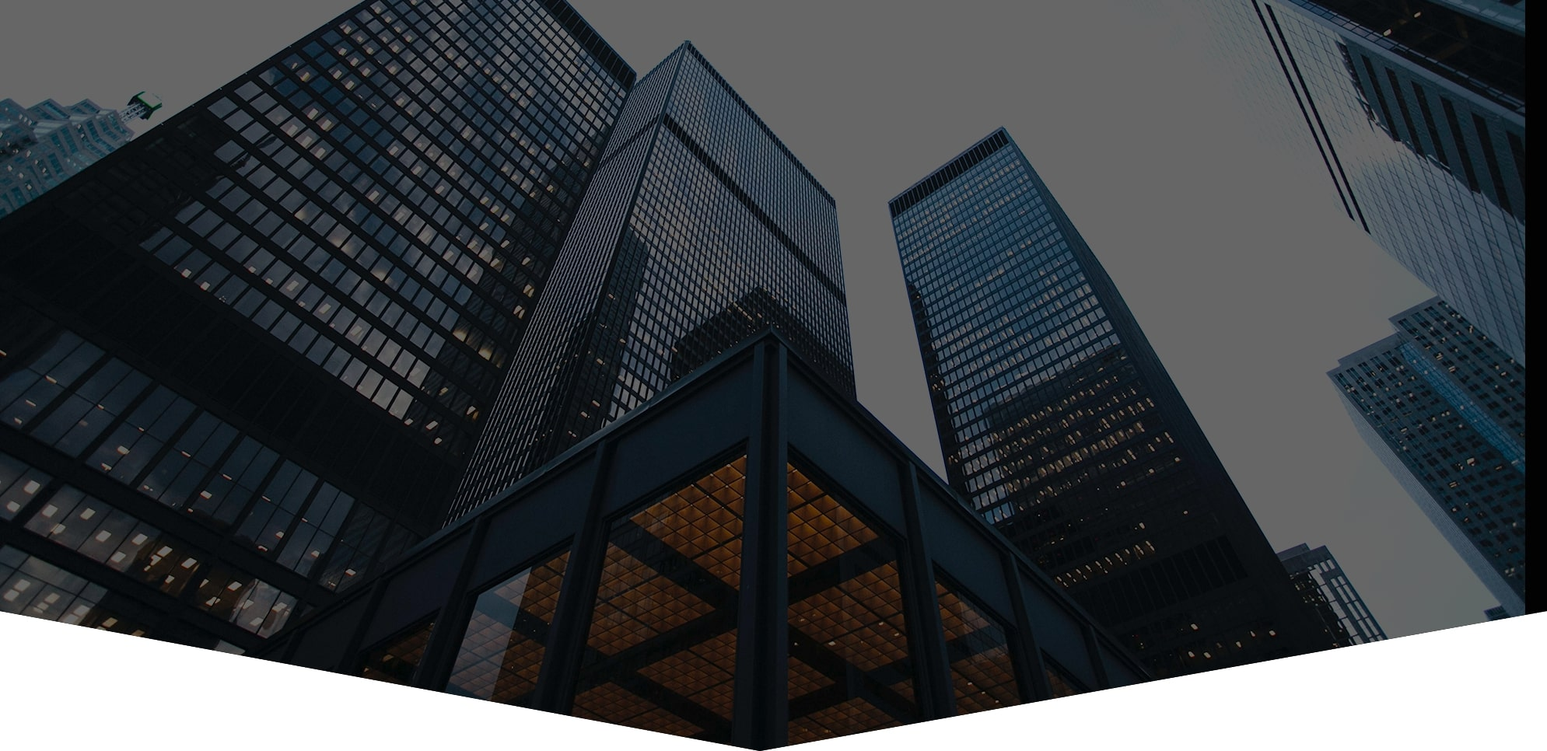
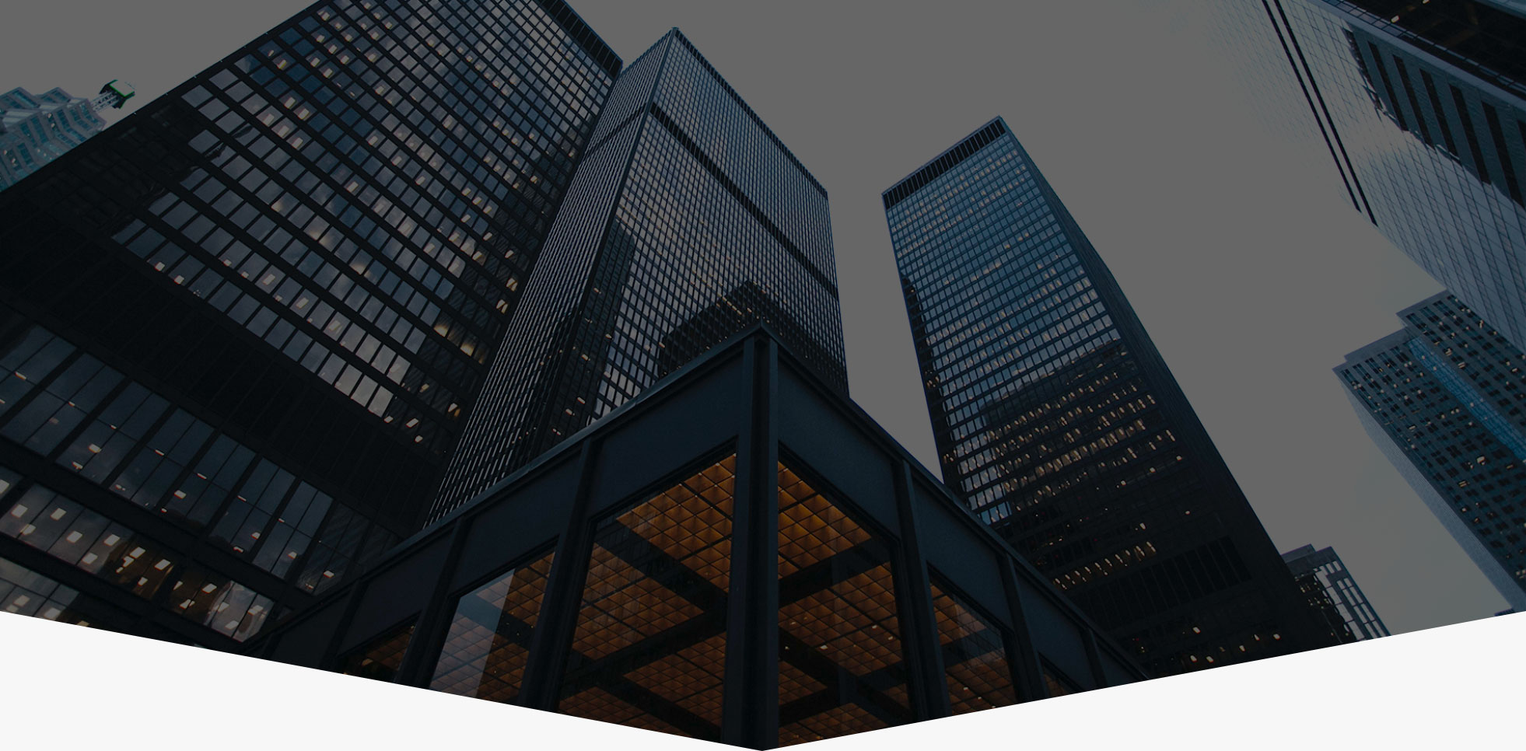
update index page design

diff --git a/src/index.html b/src/index.html
@@ -1,1 +1,1 @@
-<!DOCTYPE html><html lang="en"><head><meta charset="UTF-8"/><meta name="viewport" content="width=device-width, initial-scale=1.0"/><meta http-equiv="X-UA-Compatible" content="ie=edge"/><title>Dheeti Technologies- Turning Your Vision Into Reality</title><link rel="stylesheet" href="https://fonts.googleapis.com/css?family=Merriweather:700|Open+Sans:400,700&amp;display=swap"/><link rel="stylesheet" href="assets/css/style.css"/><link rel="apple-touch-icon-precomposed" sizes="57x57" href="assets/img/apple-touch-icon-57x57.png"/><link rel="apple-touch-icon-precomposed" sizes="114x114" href="assets/img/apple-touch-icon-114x114.png"/><link rel="apple-touch-icon-precomposed" sizes="72x72" href="assets/img/apple-touch-icon-72x72.png"/><link rel="apple-touch-icon-precomposed" sizes="144x144" href="assets/img/apple-touch-icon-144x144.png"/><link rel="apple-touch-icon-precomposed" sizes="60x60" href="assets/img/apple-touch-icon-60x60.png"/><link rel="apple-touch-icon-precomposed" sizes="120x120" href="assets/img/apple-touch-icon-120x120.png"/><link rel="apple-touch-icon-precomposed" sizes="76x76" href="assets/img/apple-touch-icon-76x76.png"/><link rel="apple-touch-icon-precomposed" sizes="152x152" href="assets/img/apple-touch-icon-152x152.png"/><link rel="icon" type="image/png" href="assets/img/favicon-196x196.png" sizes="196x196"/><link rel="icon" type="image/png" href="assets/img/favicon-96x96.png" sizes="96x96"/><link rel="icon" type="image/png" href="assets/img/favicon-32x32.png" sizes="32x32"/><link rel="icon" type="image/png" href="assets/img/favicon-16x16.png" sizes="16x16"/><link rel="icon" type="image/png" href="assets/img/favicon-128.png" sizes="128x128"/><meta name="application-name" content=" "/><meta name="msapplication-TileColor" content="#FFFFFF"/><meta name="msapplication-TileImage" content="assets/img/mstile-144x144.png"/><meta name="msapplication-square70x70logo" content="assets/img/mstile-70x70.png"/><meta name="msapplication-square150x150logo" content="assets/img/mstile-150x150.png"/><meta name="msapplication-wide310x150logo" content="assets/img/mstile-310x150.png"/><meta name="msapplication-square310x310logo" content="assets/img/mstile-310x310.png"/><meta name="image" content="assets/img/growthpal-meta.jpg"/><meta name="description" content="Dheeti Technologies provides expert guidance to growth-oriented businesses in the Industry 4.0 through consultation, training as well as software development."/><meta name="image" content="assets/img/growthpal-meta.jpg"/><!-- Schema.org for Google--><meta itemprop="name" content="Dheeti Technologies- Turning Your Vision Into Reality"/><meta itemprop="description" content="Dheeti Technologies provides expert guidance to growth-oriented businesses in the Industry 4.0 through consultation, training as well as software development."/><meta itemprop="image" content="assets/img/growthpal-meta.jpg"/><!-- Twitter--><meta name="twitter:card" content="summary"/><meta name="twitter:title" content="Dheeti Technologies- Turning Your Vision Into Reality"/><meta name="twitter:description" content="Dheeti Technologies provides expert guidance to growth-oriented businesses in the Industry 4.0 through consultation, training as well as software development."/><meta name="twitter:site" content=""/><meta name="twitter:creator" content=""/><meta name="twitter:image:src" content="assets/img/growthpal-meta.jpg"/><!-- Open Graph general (Facebook, Pinterest & Google+)--><meta name="url" property="og:url" content="https://www.growthpal.com"/><meta name="site_name" property="og:site_name" content="Dheeti Technologies"/><meta name="title" property="og:title" content="Dheeti Technologies- Turning Your Vision Into Reality"/><meta name="type" property="og:type" content="website"/><meta name="image" property="og:image" content="assets/img/growthpal-meta.jpg"/><meta name="description" property="og:description" content="Dheeti Technologies provides expert guidance to growth-oriented businesses in the Industry 4.0 through consultation, training as well as software development."/></head><body><nav class="nav"><div class="container"><div class="flex align-items-center"><div class="flex-1"><a href="./"><img src="assets/img/dheeti-logo.svg" alt="dheeti logo"/></a></div><div class="flex-1 right"><ul><li><a href="#!">Services</a></li><li><a href="#!">Team</a></li><li><a href="#!">Blog</a></li><li><a href="#!">Contact</a></li></ul></div></div></div></nav><main class="index"><section class="index-hero center"><div class="container"><h1 class="white">Turning Your Vision Into Reality</h1><p class="white">Business Consulting for Industry 4.0</p><a class="button white" href="#!">Contact Us</a></div></section><section class="index-how center"><div class="container"><h2>How Can We Help?</h2><div class="flex flex-wrap"><div class="flex-1"><img src="assets/img/consulting.png" alt="consulting"/><h3>Consulting</h3><p>Is your organisation finding it difficult to navigate through the current uncertain times? We work with enterprises helping them navigate and come out a winner through these VUCA times.</p></div><div class="flex-1"><img src="assets/img/software-dev.png" alt="software development"/><h3>Software Development</h3><p>Software is changing how businesses are run at every level. We can help build the software that’s right for your requirements.</p></div><div class="flex-1"><img src="assets/img/training.png" alt="training"/><h3>Training</h3><p>Training on various software practices for the complete workforce. Right from the junior developers on how to use GIT well to experienced software architects on Object-Oriented Programming and DevOps.</p></div></div></div></section><section class="index-clients center"><div class="container"><h2>Our Clients</h2><div class="flex flex-wrap justify-content-center align-items-center"><div class="flex-1"><img src="assets/img/siemens-logo.png" alt="siemens logo"/></div><div class="flex-1"><img src="assets/img/trusting-social-logo.png" alt="trusting social logo"/></div><div class="flex-1"><img src="assets/img/learning-health-logo.png" alt="learning health logo"/></div><div class="flex-1"><img src="assets/img/tata-communications-logo.png" alt="tata communications logo"/></div><div class="flex-1"><img src="assets/img/shibika-logo.png" alt="shibika logo"/></div></div></div></section><section class="index-team center"><div class="container"><h2>Our Team</h2><div class="flex"><div class="flex-1"><img src="assets/img/jayram-joshi.png" alt="jayram joshi"/><h3>Jayram Joshi</h3><h4>CEO</h4><p>With over 20 years of work experience, Jayram has worked with some of the leading brands in varying roles across domains. His journey started as a project manager and evolved to roles like that of Cheif Technical Officer, Head of Product Development who grew to become a Leadership Coach, Mentor and now the Founder. A Technologist and Entrepreneur at heart, Jayram is always curious to learn and grow.</p></div><div class="flex-1"><img src="assets/img/shripad-agashe.png" alt="shripad agashe"/><h3>Shripad Agashe</h3><h4>CTO</h4><p>With over 17 years of development experience in building enterprise-scale software, Shripad is an expert in TDD with a special interest in Performance and Scalability of compute-intensive enterprise applications. “Been there, done that.” is the perfect phrase to define Shripad’s technical expertise which has evolved from a System Engineer to a Senior Technical Architect. Even though the sceptical one in the team, Shripad too is ever-curious about the latest the tech market has to offer.</p></div></div></div></section><section class="index-blog"><div class="container"><h2 class="center">Blog</h2><div class="flex"><div class="flex-1"><img src="assets/img/blog-featured-image.jpg" alt="The Guessing Game of Abstractions"/><h3 class="uppercase">The Guessing Game of Abstractions</h3><p>Lorem ipsum dolor, sit amet consectetur adipisicing elit. Doloribus amet dolores distinctio ducimus cumque delectus sunt vero nobis qui iure! Ipsum, voluptate hic! Quis eveniet eaque voluptate soluta! Unde, beatae!</p></div><div class="flex-1"><img src="assets/img/blog-featured-image.jpg" alt="The Guessing Game of Abstractions"/><h3 class="uppercase">The Guessing Game of Abstractions</h3><p>Lorem ipsum dolor, sit amet consectetur adipisicing elit. Doloribus amet dolores distinctio ducimus cumque delectus sunt vero nobis qui iure! Ipsum, voluptate hic! Quis eveniet eaque voluptate soluta! Unde, beatae!</p></div><div class="flex-1"><img src="assets/img/blog-featured-image.jpg" alt="The Guessing Game of Abstractions"/><h3 class="uppercase">The Guessing Game of Abstractions</h3><p>Lorem ipsum dolor, sit amet consectetur adipisicing elit. Doloribus amet dolores distinctio ducimus cumque delectus sunt vero nobis qui iure! Ipsum, voluptate hic! Quis eveniet eaque voluptate soluta! Unde, beatae!</p></div></div></div></section><section class="index-contact"><div class="container"><h2 class="center">Contact Us</h2><div class="index-contact__wrapper"><form><input type="text" placeholder="Name"/><input type="email" placeholder="Email"/><input type="text" placeholder="Phone"/><textarea id="message" name="message" cols="30" rows="10" placeholder="Message"></textarea><div class="center"><button class="button button-fill" type="submit">Send</button></div></form></div></div></section></main><footer class="footer"><div class="container"><div class="flex"><div class="flex-1"><img src="assets/img/dheeti-logo.svg" alt="dheeti logo"/><p>&copy; Dheeti Technologies. All Rights Reserved.</p><p><a href="#!">Privacy Policy</a><span> | </span><a href="#!">Terms of Use</a></p></div><div class="flex-1"><ul class="footer-list"><li>Bhawani Complex, Shastri Nagar Kothrud Pune,<br/>Maharashtra India 411038</li><li><a href="tel:+91 779-898-7105">+91 779-898-7105</a></li><li><a href="mailto:info@dheeti.com">info@dheeti.com</a></li></ul></div></div></div></footer></body></html>
+<!DOCTYPE html><html lang="en"><head><meta charset="UTF-8"/><meta name="viewport" content="width=device-width, initial-scale=1.0"/><meta http-equiv="X-UA-Compatible" content="ie=edge"/><title>Dheeti Technologies- Turning Your Vision Into Reality</title><link rel="stylesheet" href="https://fonts.googleapis.com/css?family=Merriweather:700|Open+Sans:400,700&amp;display=swap"/><link rel="stylesheet" href="assets/css/style.css"/><link rel="apple-touch-icon-precomposed" sizes="57x57" href="assets/img/apple-touch-icon-57x57.png"/><link rel="apple-touch-icon-precomposed" sizes="114x114" href="assets/img/apple-touch-icon-114x114.png"/><link rel="apple-touch-icon-precomposed" sizes="72x72" href="assets/img/apple-touch-icon-72x72.png"/><link rel="apple-touch-icon-precomposed" sizes="144x144" href="assets/img/apple-touch-icon-144x144.png"/><link rel="apple-touch-icon-precomposed" sizes="60x60" href="assets/img/apple-touch-icon-60x60.png"/><link rel="apple-touch-icon-precomposed" sizes="120x120" href="assets/img/apple-touch-icon-120x120.png"/><link rel="apple-touch-icon-precomposed" sizes="76x76" href="assets/img/apple-touch-icon-76x76.png"/><link rel="apple-touch-icon-precomposed" sizes="152x152" href="assets/img/apple-touch-icon-152x152.png"/><link rel="icon" type="image/png" href="assets/img/favicon-196x196.png" sizes="196x196"/><link rel="icon" type="image/png" href="assets/img/favicon-96x96.png" sizes="96x96"/><link rel="icon" type="image/png" href="assets/img/favicon-32x32.png" sizes="32x32"/><link rel="icon" type="image/png" href="assets/img/favicon-16x16.png" sizes="16x16"/><link rel="icon" type="image/png" href="assets/img/favicon-128.png" sizes="128x128"/><meta name="application-name" content=" "/><meta name="msapplication-TileColor" content="#FFFFFF"/><meta name="msapplication-TileImage" content="assets/img/mstile-144x144.png"/><meta name="msapplication-square70x70logo" content="assets/img/mstile-70x70.png"/><meta name="msapplication-square150x150logo" content="assets/img/mstile-150x150.png"/><meta name="msapplication-wide310x150logo" content="assets/img/mstile-310x150.png"/><meta name="msapplication-square310x310logo" content="assets/img/mstile-310x310.png"/><meta name="image" content="assets/img/growthpal-meta.jpg"/><meta name="description" content="Dheeti Technologies provides expert guidance to growth-oriented businesses in the Industry 4.0 through consultation, training as well as software development."/><meta name="image" content="assets/img/growthpal-meta.jpg"/><!-- Schema.org for Google--><meta itemprop="name" content="Dheeti Technologies- Turning Your Vision Into Reality"/><meta itemprop="description" content="Dheeti Technologies provides expert guidance to growth-oriented businesses in the Industry 4.0 through consultation, training as well as software development."/><meta itemprop="image" content="assets/img/growthpal-meta.jpg"/><!-- Twitter--><meta name="twitter:card" content="summary"/><meta name="twitter:title" content="Dheeti Technologies- Turning Your Vision Into Reality"/><meta name="twitter:description" content="Dheeti Technologies provides expert guidance to growth-oriented businesses in the Industry 4.0 through consultation, training as well as software development."/><meta name="twitter:site" content=""/><meta name="twitter:creator" content=""/><meta name="twitter:image:src" content="assets/img/growthpal-meta.jpg"/><!-- Open Graph general (Facebook, Pinterest & Google+)--><meta name="url" property="og:url" content="https://www.growthpal.com"/><meta name="site_name" property="og:site_name" content="Dheeti Technologies"/><meta name="title" property="og:title" content="Dheeti Technologies- Turning Your Vision Into Reality"/><meta name="type" property="og:type" content="website"/><meta name="image" property="og:image" content="assets/img/growthpal-meta.jpg"/><meta name="description" property="og:description" content="Dheeti Technologies provides expert guidance to growth-oriented businesses in the Industry 4.0 through consultation, training as well as software development."/></head><body><nav class="nav"><div class="container"><div class="flex align-items-center"><div class="flex-1"><a href="./"><img src="assets/img/dheeti-logo.svg" alt="dheeti logo"/></a></div><div class="flex-1 right"><ul><li><a href="#services">Services</a></li><li><a href="#team">Team</a></li><li><a href="#blog">Blog</a></li><li><a href="#contact">Contact</a></li></ul></div></div></div></nav><main class="index"><section class="index-hero center"><div class="container"><h1 class="white">Turning Your Vision Into Reality</h1><p class="white">Business Consulting for Industry 4.0</p><a class="button white" href="#!">Contact Us</a></div></section><section class="index-how center" id="services"><div class="container"><h2 class="uppercase">How Can We Help?</h2><div class="flex flex-wrap"><div class="flex-1"><svg class="index-how__hex" viewBox="0 0 120 100"><path d="M38,2 L82,2 A12,12 0 0,1 94,10 L112,44 A12,12 0 0,1 112,56 L94,90 A12,12 0 0,1 82,98 L38,98 A12,12 0 0,1 26,90 L8,56 A12,12 0 0,1 8,44 L26,10 A12,12 0 0,1 38,2"></path></svg><div class="index-how__content"><div class="flex"><div><img src="assets/img/consulting.png" alt="consulting"/><h3>Consulting</h3></div><div class="left"><ul><li>Agile Coaching</li><li>Management 4.0</li><li>Engineering Practices</li></ul></div></div></div></div><div class="flex-1"><svg class="index-how__hex" viewBox="0 0 120 100"><path d="M38,2 L82,2 A12,12 0 0,1 94,10 L112,44 A12,12 0 0,1 112,56 L94,90 A12,12 0 0,1 82,98 L38,98 A12,12 0 0,1 26,90 L8,56 A12,12 0 0,1 8,44 L26,10 A12,12 0 0,1 38,2"></path></svg><div class="index-how__content"><div class="flex"><div><img src="assets/img/software-dev.png" alt="software development"/><h3>Software Engineering</h3></div><div class="left"><ul><li>Web Development</li><li>Mobile Development</li><li>BPM</li><li>DevOps &amp; Business Intelligence</li></ul></div></div></div></div><div class="flex-1"><svg class="index-how__hex" viewBox="0 0 120 100"><path d="M38,2 L82,2 A12,12 0 0,1 94,10 L112,44 A12,12 0 0,1 112,56 L94,90 A12,12 0 0,1 82,98 L38,98 A12,12 0 0,1 26,90 L8,56 A12,12 0 0,1 8,44 L26,10 A12,12 0 0,1 38,2"></path></svg><div class="index-how__content"><div class="flex"><div><img src="assets/img/training.png" alt="training"/><h3>Training</h3></div><div class="left"><ul><li>Git Masterclass</li><li>OO for Experienced Professionals</li><li>Agile Project Management</li></ul></div></div></div></div></div></div></section><section class="index-clients center"><div class="container"><h2 class="uppercase">Our Clients</h2><div class="flex flex-wrap justify-content-center align-items-center"><div class="flex-1"><img src="assets/img/siemens-logo.png" alt="siemens logo" style="width: 180px; max-height: unset;"/></div><div class="flex-1"><img src="assets/img/trusting-social-logo.png" alt="trusting social logo" style="width: 190px;"/></div><div class="flex-1"><img src="assets/img/learning-health-logo.png" alt="learning health logo"/></div><div class="flex-1"><img src="assets/img/tata-communications-logo.png" alt="tata communications logo"/></div><div class="flex-1"><img src="assets/img/shibika-logo.png" alt="shibika logo" style="width: 120px;max-height: unset;"/></div></div></div></section><section class="index-blog" id="blog"><div class="container"><h2 class="center uppercase">Blog</h2><div class="flex"><div class="flex-1"><img src="assets/img/blog-featured-image.jpg" alt="The Guessing Game of Abstractions"/><h3 class="uppercase">The Guessing Game of Abstractions</h3><p>Lorem ipsum dolor, sit amet consectetur adipisicing elit. Doloribus amet dolores distinctio ducimus cumque delectus sunt vero nobis qui iure! Ipsum, voluptate hic! Quis eveniet eaque voluptate soluta! Unde, beatae!</p></div><div class="flex-1"><img src="assets/img/blog-featured-image.jpg" alt="The Guessing Game of Abstractions"/><h3 class="uppercase">The Guessing Game of Abstractions</h3><p>Lorem ipsum dolor, sit amet consectetur adipisicing elit. Doloribus amet dolores distinctio ducimus cumque delectus sunt vero nobis qui iure! Ipsum, voluptate hic! Quis eveniet eaque voluptate soluta! Unde, beatae!</p></div><div class="flex-1"><img src="assets/img/blog-featured-image.jpg" alt="The Guessing Game of Abstractions"/><h3 class="uppercase">The Guessing Game of Abstractions</h3><p>Lorem ipsum dolor, sit amet consectetur adipisicing elit. Doloribus amet dolores distinctio ducimus cumque delectus sunt vero nobis qui iure! Ipsum, voluptate hic! Quis eveniet eaque voluptate soluta! Unde, beatae!</p></div></div></div></section><section class="index-about center" id="team"><div class="container"><h2 class="uppercase">About Us</h2><h3 class="index-about--subhead">Our Values</h3><div class="flex index-about__values"><div class="flex-1"><img src="assets/img/agility.png" alt="agility"/><h3>Agility</h3><p>We firmly believe and follow the Agile methodology as a practice which promotes continuous iteration of development and testing throughout the software development lifecycle of the project.</p></div><div class="flex-1"><img src="assets/img/excellence.png" alt="engineering excellence"/><h3>Engineering Excellence</h3><p>Exceptional engineers build exceptional software. We strive for excellence in everything we do.</p></div><div class="flex-1"><img src="assets/img/entrepreneur.png" alt="entrepreneurship"/><h3>Entrepreneurship</h3><p>Entrepreneurship is a mindset and we value that. The hunger to grow, the will to keep trying and the passion to succeed is what keeps us going.</p></div></div><h3 class="index-about--subhead">Our Team</h3><div class="flex index-about__team"><div class="flex-1"><img src="assets/img/jayram-joshi.png" alt="jayram joshi"/><h3>Jayram Joshi</h3><h4>CEO</h4><p>Over 20 years of work experience| Technologist and Agileist| Entrepreneur at Heart| Always curious to learn and grow.</p></div><div class="flex-1"><img src="assets/img/shripad-agashe.png" alt="shripad agashe"/><h3>Shripad Agashe</h3><h4>CTO</h4><p>Over 17 years of development experience| An expert in TDD| Ever Sceptical| Ever-curious about the latest the tech market has to offer.</p></div></div></div></section><section class="index-contact" id="contact"><div class="container"><h2 class="center uppercase">Contact Us</h2><div class="index-contact__wrapper"><form><input type="text" placeholder="Name"/><input type="email" placeholder="Email"/><input type="text" placeholder="Phone"/><textarea id="message" name="message" cols="30" rows="10" placeholder="Message"></textarea><div class="center"><button class="button button-fill" type="submit">Send</button></div></form></div></div></section></main><footer class="footer"><div class="container"><div class="flex"><div class="flex-1"><img src="assets/img/dheeti-logo.svg" alt="dheeti logo"/><p>&copy; Dheeti Technologies. All Rights Reserved.</p><p><a href="#!">Privacy Policy</a><span> | </span><a href="#!">Terms of Use</a></p></div><div class="flex-1"><ul class="footer-list"><li>Bhawani Complex, Shastri Nagar Kothrud Pune,<br/>Maharashtra India 411038</li><li><a href="tel:+91 779-898-7105">+91 779-898-7105</a></li><li><a href="mailto:info@dheeti.com">info@dheeti.com</a></li></ul></div></div></div></footer></body></html>

diff --git a/src/assets/css/style.css b/src/assets/css/style.css
@@ -1,1 +1,1 @@
-html{line-height:1.15;-webkit-text-size-adjust:100%}body{margin:0}main{display:block}h1{font-size:2em;margin:0.67em 0}hr{box-sizing:content-box;height:0;overflow:visible}pre{font-family:monospace, monospace;font-size:1em}a{background-color:transparent}abbr[title]{border-bottom:none;text-decoration:underline;text-decoration:underline dotted}b,strong{font-weight:bolder}code,kbd,samp{font-family:monospace, monospace;font-size:1em}small{font-size:80%}sub,sup{font-size:75%;line-height:0;position:relative;vertical-align:baseline}sub{bottom:-0.25em}sup{top:-0.5em}img{border-style:none}button,input,optgroup,select,textarea{font-family:inherit;font-size:100%;line-height:1.15;margin:0}button,input{overflow:visible}button,select{text-transform:none}button,[type="button"],[type="reset"],[type="submit"]{-webkit-appearance:button}button::-moz-focus-inner,[type="button"]::-moz-focus-inner,[type="reset"]::-moz-focus-inner,[type="submit"]::-moz-focus-inner{border-style:none;padding:0}button:-moz-focusring,[type="button"]:-moz-focusring,[type="reset"]:-moz-focusring,[type="submit"]:-moz-focusring{outline:1px dotted ButtonText}fieldset{padding:0.35em 0.75em 0.625em}legend{box-sizing:border-box;color:inherit;display:table;max-width:100%;padding:0;white-space:normal}progress{vertical-align:baseline}textarea{overflow:auto}[type="checkbox"],[type="radio"]{box-sizing:border-box;padding:0}[type="number"]::-webkit-inner-spin-button,[type="number"]::-webkit-outer-spin-button{height:auto}[type="search"]{-webkit-appearance:textfield;outline-offset:-2px}[type="search"]::-webkit-search-decoration{-webkit-appearance:none}::-webkit-file-upload-button{-webkit-appearance:button;font:inherit}details{display:block}summary{display:list-item}template{display:none}[hidden]{display:none}*,*::before,*::after{box-sizing:border-box;-webkit-overflow-scrolling:touch}html{scroll-behavior:smooth}html,body{margin:0;padding:0;font-family:sans-serif}body{font-family:'Open Sans', sans-serif;font-size:16px;-moz-osx-font-smoothing:grayscale;-webkit-font-smoothing:antialiased;text-rendering:optimizeLegibility;color:rgba(0,0,0,0.85);line-height:1.6}main{max-width:100vw;overflow:hidden}h1,h2,h3,h4,p{margin:0}h1{font-family:'Merriweather', serif}h2{position:relative;margin-bottom:35px;font-size:2em;font-weight:bold}h2::before{content:'';position:absolute;bottom:-13px;left:50%;transform:translateX(-50%);width:30px;height:3px;background-color:#00a9e8;border-radius:5px}h3{margin-bottom:20px}a{text-decoration:none;color:#00a9e8;transition:all 0.2s}a:hover{color:rgba(0,0,0,0.85)}section{padding:100px 0}input{display:block}input,textarea{width:100%;padding:10px 13px;border-radius:5px;margin-bottom:10px;border:1px solid rgba(0,169,232,0.5)}input::placeholder,textarea::placeholder{color:rgba(0,169,232,0.5)}img{max-width:100%;vertical-align:middle}.container{max-width:1280px;margin-left:auto;margin-right:auto}@media only screen and (max-width: 1280px){.container{padding:0 3%}}.center{text-align:center !important}.right{text-align:right !important}.left{text-align:left !important}.flex{display:flex}.flex-wrap{flex-wrap:wrap !important}.flex-1{flex:1}.justify-content-center{justify-content:center !important}.align-items-center{align-items:center !important}.white{color:#fff !important}.uppercase{text-transform:uppercase !important}.button{display:inline-block;font-size:1.2em;padding:10px 20px;border:1px solid;text-decoration:none;background-color:unset;transition:all 0.2s;cursor:pointer}.button:hover{background-color:#00a9e8;border-color:#00a9e8}.button-fill{background-color:#00a9e8;border:1px solid #00a9e8;color:#fff}.button-fill:hover{opacity:0.9}.nav{background-color:#fff;padding:20px 0}.nav img{width:130px}@media only screen and (max-width: 767px){.nav .flex{flex-direction:column}}.nav ul{list-style:none;padding:0;margin:0}@media only screen and (max-width: 767px){.nav ul{margin-top:15px}}.nav ul li{display:inline-block;margin:0 20px}.nav ul li:last-child{margin-right:0}.nav ul li a{color:rgba(0,0,0,0.85);transition:all 0.2s}.nav ul li a:hover{color:#00a9e8}.footer{padding:50px 0;background-color:#f7f7f7;border-top:1px solid #eaeaea}@media only screen and (max-width: 767px){.footer .flex{flex-direction:column-reverse}}@media only screen and (max-width: 767px){.footer .flex-1:first-child{margin-top:35px;border-top:1px solid #dedede;padding-top:35px}}.footer .flex-1:first-child img{margin-bottom:20px;width:150px}.footer .flex-1:first-child p{opacity:0.7;font-size:0.9em}.footer-list{list-style:none;margin:0;padding:0}.footer-list li{position:relative;margin:0;padding:0;margin-bottom:20px;padding-left:40px}.footer-list li::before{content:'';position:absolute;left:0;top:3px;height:25px;width:25px;background-color:#f7f7f7;background-size:17px;background-repeat:no-repeat;background-position:center;border-radius:50%;filter:invert(1);opacity:0.85}.footer-list li:first-child::before{background-image:url("https://cdnjs.cloudflare.com/ajax/libs/ionicons/4.5.6/collection/build/ionicons/svg/md-home.svg")}.footer-list li:nth-child(2)::before{background-image:url("https://cdnjs.cloudflare.com/ajax/libs/ionicons/4.5.6/collection/build/ionicons/svg/ios-call.svg")}.footer-list li:last-child::before{background-image:url("https://cdnjs.cloudflare.com/ajax/libs/ionicons/4.5.6/collection/build/ionicons/svg/md-mail.svg")}.footer-list li:last-child{margin:0}.index-hero{padding:250px 0;background-image:url("../img/dheeti-hero-bg.jpg");background-repeat:no-repeat;background-size:cover;background-position:bottom}.index-hero h1{font-size:3.2em;margin-bottom:25px}.index-hero p{margin-bottom:50px;font-size:1.2em}.index-how .flex{margin:0 -50px;padding-top:25px}@media only screen and (max-width: 767px){.index-how .flex{flex-direction:column;margin:0}}.index-how .flex .flex-1{margin:10px 50px}@media only screen and (max-width: 767px){.index-how .flex .flex-1{margin:10px 10px 35px}}.index-how .flex .flex-1 img{height:90px}.index-how .flex .flex-1 h3{margin-top:15px}.index-clients{background-color:#f7f7f7}@media only screen and (max-width: 767px){.index-clients .flex{flex-direction:column}}.index-clients .flex-1{max-width:calc(33.333% - 60px);min-width:calc(33.333% - 60px);margin:30px}@media only screen and (max-width: 767px){.index-clients .flex-1{max-width:100%}}.index-clients .flex-1 img{max-height:50px;max-width:330px}.index-team .flex{margin:0 -20px}@media only screen and (max-width: 767px){.index-team .flex{flex-direction:column}}.index-team .flex .flex-1{margin:10px 20px;background-color:#fff;padding:30px 50px;box-shadow:0 5px 15px rgba(0,0,0,0.15);border-radius:5px}.index-team .flex .flex-1 img{height:140px}.index-team .flex .flex-1 h3{margin-top:15px;margin-bottom:0px}.index-team .flex .flex-1 h4{opacity:0.7;margin-top:5px;margin-bottom:15px}.index-blog{background-color:#f7f7f7}.index-blog .flex{margin:0 -25px}@media only screen and (max-width: 767px){.index-blog .flex{flex-direction:column}}.index-blog .flex .flex-1{margin:10px 25px}.index-blog .flex .flex-1 h3{margin-top:35px;margin-bottom:10px}.index-contact__wrapper{max-width:700px;margin:0 auto;box-shadow:0 5px 15px rgba(0,0,0,0.15);border-radius:5px;padding:30px 40px}
+html{line-height:1.15;-webkit-text-size-adjust:100%}body{margin:0}main{display:block}h1{font-size:2em;margin:0.67em 0}hr{box-sizing:content-box;height:0;overflow:visible}pre{font-family:monospace, monospace;font-size:1em}a{background-color:transparent}abbr[title]{border-bottom:none;text-decoration:underline;text-decoration:underline dotted}b,strong{font-weight:bolder}code,kbd,samp{font-family:monospace, monospace;font-size:1em}small{font-size:80%}sub,sup{font-size:75%;line-height:0;position:relative;vertical-align:baseline}sub{bottom:-0.25em}sup{top:-0.5em}img{border-style:none}button,input,optgroup,select,textarea{font-family:inherit;font-size:100%;line-height:1.15;margin:0}button,input{overflow:visible}button,select{text-transform:none}button,[type="button"],[type="reset"],[type="submit"]{-webkit-appearance:button}button::-moz-focus-inner,[type="button"]::-moz-focus-inner,[type="reset"]::-moz-focus-inner,[type="submit"]::-moz-focus-inner{border-style:none;padding:0}button:-moz-focusring,[type="button"]:-moz-focusring,[type="reset"]:-moz-focusring,[type="submit"]:-moz-focusring{outline:1px dotted ButtonText}fieldset{padding:0.35em 0.75em 0.625em}legend{box-sizing:border-box;color:inherit;display:table;max-width:100%;padding:0;white-space:normal}progress{vertical-align:baseline}textarea{overflow:auto}[type="checkbox"],[type="radio"]{box-sizing:border-box;padding:0}[type="number"]::-webkit-inner-spin-button,[type="number"]::-webkit-outer-spin-button{height:auto}[type="search"]{-webkit-appearance:textfield;outline-offset:-2px}[type="search"]::-webkit-search-decoration{-webkit-appearance:none}::-webkit-file-upload-button{-webkit-appearance:button;font:inherit}details{display:block}summary{display:list-item}template{display:none}[hidden]{display:none}*,*::before,*::after{box-sizing:border-box;-webkit-overflow-scrolling:touch}html{scroll-behavior:smooth}html,body{margin:0;padding:0;font-family:sans-serif}body{font-family:'Open Sans', sans-serif;font-size:16px;-moz-osx-font-smoothing:grayscale;-webkit-font-smoothing:antialiased;text-rendering:optimizeLegibility;color:rgba(0,0,0,0.85);line-height:1.6}main{max-width:100vw;overflow:hidden}h1,h2,h3,h4,p{margin:0}h1{font-family:'Merriweather', serif}h2{position:relative;margin-bottom:35px;font-size:2em;font-weight:bold}h2::before{content:'';position:absolute;bottom:-13px;left:50%;transform:translateX(-50%);width:30px;height:3px;background-color:#00a9e8;border-radius:5px}h3{margin-bottom:20px}a{text-decoration:none;color:#00a9e8;transition:all 0.2s}a:hover{color:rgba(0,0,0,0.85)}section{padding:100px 0}@media only screen and (max-width: 767px){section{padding:50px 0}}input{display:block}input,textarea{width:100%;padding:10px 13px;border-radius:5px;margin-bottom:10px;border:1px solid rgba(0,169,232,0.5)}input::placeholder,textarea::placeholder{color:rgba(0,169,232,0.5)}img{max-width:100%;vertical-align:middle}.container{max-width:1280px;margin-left:auto;margin-right:auto}@media only screen and (max-width: 1280px){.container{padding:0 3%}}.center{text-align:center !important}.right{text-align:right !important}.left{text-align:left !important}.flex{display:flex}.flex-wrap{flex-wrap:wrap !important}.flex-1{flex:1}.justify-content-center{justify-content:center !important}.align-items-center{align-items:center !important}.white{color:#fff !important}.uppercase{text-transform:uppercase !important}.button{display:inline-block;font-size:1.2em;padding:10px 20px;border:1px solid;text-decoration:none;background-color:unset;transition:all 0.2s;cursor:pointer}.button:hover{background-color:#00a9e8;border-color:#00a9e8}.button-fill{background-color:#00a9e8;border:1px solid #00a9e8;color:#fff}.button-fill:hover{opacity:0.9}.nav{background-color:#fff;padding:20px 0}.nav img{width:130px}@media only screen and (max-width: 767px){.nav .flex{flex-direction:column}}.nav ul{list-style:none;padding:0;margin:0}@media only screen and (max-width: 767px){.nav ul{margin-top:15px}}.nav ul li{display:inline-block;margin:0 20px}.nav ul li:last-child{margin-right:0}.nav ul li a{color:rgba(0,0,0,0.85);transition:all 0.2s}.nav ul li a:hover{color:#00a9e8}.footer{padding:50px 0;background-color:#f7f7f7;border-top:1px solid #eaeaea}@media only screen and (max-width: 767px){.footer .flex{flex-direction:column-reverse}}@media only screen and (max-width: 767px){.footer .flex-1:first-child{margin-top:35px;border-top:1px solid #dedede;padding-top:35px}}.footer .flex-1:first-child img{margin-bottom:20px;width:150px}.footer .flex-1:first-child p{opacity:0.7;font-size:0.9em}.footer-list{list-style:none;margin:0;padding:0}.footer-list li{position:relative;margin:0;padding:0;margin-bottom:20px;padding-left:40px}.footer-list li::before{content:'';position:absolute;left:0;top:3px;height:25px;width:25px;background-color:#f7f7f7;background-size:17px;background-repeat:no-repeat;background-position:center;border-radius:50%;filter:invert(1);opacity:0.85}.footer-list li:first-child::before{background-image:url("https://cdnjs.cloudflare.com/ajax/libs/ionicons/4.5.6/collection/build/ionicons/svg/md-home.svg")}.footer-list li:nth-child(2)::before{background-image:url("https://cdnjs.cloudflare.com/ajax/libs/ionicons/4.5.6/collection/build/ionicons/svg/ios-call.svg")}.footer-list li:last-child::before{background-image:url("https://cdnjs.cloudflare.com/ajax/libs/ionicons/4.5.6/collection/build/ionicons/svg/md-mail.svg")}.footer-list li:last-child{margin:0}.index-hero{background-color:#f7f7f7;padding:250px 0;background-image:url("../img/dheeti-hero-bg.jpg");background-repeat:no-repeat;background-size:cover;background-position:bottom}.index-hero h1{font-size:3.2em;margin-bottom:25px}.index-hero p{margin-bottom:50px;font-size:1.2em}@media only screen and (max-width: 767px){.index-hero{background-image:url("../img/dheeti-hero-bg-mobile.jpg");padding:150px 0}.index-hero h1{font-size:2.4em}.index-hero p{font-size:1em}}.index-how{background-color:#f7f7f7;padding-top:90px}.index-how>.container>.flex{margin:0;padding-top:25px;justify-content:center;align-items:stretch;flex-wrap:wrap;margin:0 -10px}@media only screen and (max-width: 767px){.index-how>.container>.flex{flex-direction:column;margin:0}}.index-how>.container>.flex .flex-1{position:relative;margin:20px 30px;max-width:426px;min-width:326px;height:218px}.index-how>.container>.flex .flex-1 img{height:90px}.index-how>.container>.flex .flex-1 h3{margin-top:15px}@media only screen and (max-width: 767px){.index-how>.container>.flex .flex-1{margin:10px 10px 35px}}@media only screen and (max-width: 480px){.index-how>.container>.flex .flex-1 img{height:75px}.index-how>.container>.flex .flex-1 h3{font-size:1em}}.index-how__hex{position:absolute;z-index:1;top:50%;left:calc(50% - 232px);height:246px;transform:translateY(-50%)}.index-how__hex path{fill:none;stroke:#00a9e8}.index-how__content{position:relative;z-index:2;height:100%;border-radius:15px;margin:0 -10px;background-image:url("../img/bihex.svg");background-position:center;background-size:contain;background-repeat:no-repeat}.index-how__content>.flex{position:relative;z-index:1;justify-content:center;align-items:center;width:85%;margin:0 auto;height:100%;padding:0 20px}.index-how__content>.flex>div:first-child{flex:1}.index-how__content>.flex>div:last-child{flex:2;min-width:160px}.index-how__content h3{line-height:1.4}.index-how__content ul li{line-height:1.4}@media only screen and (max-width: 480px){.index-how__content ul li{font-size:0.9em}}.index-clients{padding-top:85px;padding-bottom:65px}@media only screen and (max-width: 767px){.index-clients .flex{flex-direction:column}}.index-clients .flex-1{max-width:calc(33.333% - 60px);min-width:calc(33.333% - 60px);margin:30px}@media only screen and (max-width: 767px){.index-clients .flex-1{max-width:100%}}.index-clients .flex-1 img{max-height:50px;max-width:330px}.index-about{padding-top:85px;padding-bottom:90px}.index-about--subhead{font-weight:normal;font-size:1.7em;margin-top:50px}.index-about__values{margin:0 -20px}@media only screen and (max-width: 767px){.index-about__values{flex-direction:column}}.index-about__values .flex-1{margin:10px 20px;background-color:#fff;padding:30px 50px;box-shadow:0 5px 15px rgba(0,0,0,0.15);border-radius:5px}.index-about__values .flex-1 img{height:110px}.index-about__values .flex-1 h3{margin:15px 0}.index-about__values .flex-1 h4{opacity:0.7;margin-top:5px;margin-bottom:15px}.index-about__values .flex-1 p{font-size:0.95em}.index-about__team{max-width:900px;margin:0 auto}@media only screen and (max-width: 767px){.index-about__team{flex-direction:column}}.index-about__team .flex-1{margin:10px 0;padding:30px 50px}.index-about__team .flex-1:first-child{border-right:1px solid rgba(0,0,0,0.2)}@media only screen and (max-width: 767px){.index-about__team .flex-1:first-child{border-right:0}}.index-about__team .flex-1 img{height:140px}.index-about__team .flex-1 h3{margin-top:15px;margin-bottom:0px}.index-about__team .flex-1 h4{opacity:0.7;margin-top:5px;margin-bottom:15px}.index-blog{padding-top:85px;padding-bottom:85px;background-color:#f7f7f7}.index-blog .flex{margin:0 -25px}@media only screen and (max-width: 767px){.index-blog .flex{flex-direction:column}}.index-blog .flex .flex-1{margin:10px 25px}.index-blog .flex .flex-1 h3{margin-top:35px;margin-bottom:10px}.index-contact{background-color:#f7f7f7;padding-top:85px}.index-contact__wrapper{max-width:700px;margin:0 auto;box-shadow:0 5px 15px rgba(0,0,0,0.15);border-radius:5px;padding:30px 40px;background-color:#fff}

diff --git a/src/assets/scss/_page-index.scss b/src/assets/scss/_page-index.scss
@@ -1,5 +1,6 @@
 .index {
   &-hero {
+    background-color: $light;
     padding: 250px 0;
     background-image: url('../img/dheeti-hero-bg.jpg');
     background-repeat: no-repeat;
@@ -15,12 +16,32 @@
       margin-bottom: 50px;
       font-size: 1.2em;
     }
+
+    @media only screen and (max-width: 767px) {
+      background-image: url('../img/dheeti-hero-bg-mobile.jpg');
+      padding: 150px 0;
+
+      h1 {
+        font-size: 2.4em;
+      }
+
+      p {
+        font-size: 1em;
+      }
+    }
   }
 
   &-how {
-    .flex {
-      margin: 0 -50px;
+    background-color: $light;
+    padding-top: 90px;
+
+    & > .container > .flex {
+      margin: 0;
       padding-top: 25px;
+      justify-content: center;
+      align-items: stretch;
+      flex-wrap: wrap;
+      margin: 0 -10px;
 
       @media only screen and (max-width: 767px) {
         flex-direction: column;
@@ -28,11 +49,11 @@
       }
 
       .flex-1 {
-        margin: 10px 50px;
-
-        @media only screen and (max-width: 767px) {
-          margin: 10px 10px 35px;
-        }
+        position: relative;
+        margin: 20px 30px;
+        max-width: 426px;
+        min-width: 326px;
+        height: 218px;
 
         img {
           height: 90px;
@@ -41,12 +62,89 @@
         h3 {
           margin-top: 15px;
         }
+        
+        @media only screen and (max-width: 767px) {
+          margin: 10px 10px 35px;
+        }
+
+        @media only screen and (max-width: 480px) {
+          img {
+            height: 75px;
+          }
+
+          h3 {
+            font-size: 1em;
+          }
+        }
+      }
+    }
+
+    &__hex {
+      position: absolute;
+      z-index: 1;
+      top: 50%;
+      left: calc(50% - 232px);
+      height: 246px;
+      transform: translateY(-50%);
+
+      path {
+        fill: none;
+        stroke: $blue;
+      }
+    }
+
+    &__content {
+      position: relative;
+      z-index: 2;
+      height: 100%;
+      border-radius: 15px;
+      margin: 0 -10px;
+      background-image: url('../img/bihex.svg');
+      background-position: center;
+      background-size: contain;
+      background-repeat: no-repeat;
+
+      & > .flex {
+        position: relative;
+        z-index: 1;
+        justify-content: center;
+        align-items: center;
+        width: 85%;
+        margin: 0 auto;
+        height: 100%;
+        padding: 0 20px;
+
+        & > div {
+          &:first-child {
+            flex: 1;
+          }
+          
+          &:last-child {
+            flex: 2;
+            min-width: 160px;
+          }
+        }
+      }
+
+      h3 {
+        line-height: 1.4;
+      }
+
+      ul {
+        li {
+          line-height: 1.4;
+
+          @media only screen and (max-width: 480px) {
+            font-size: 0.9em;
+          }
+        }
       }
     }
   }
 
   &-clients {
-    background-color: $light;
+    padding-top: 85px;
+    padding-bottom: 65px;
 
     .flex {
       @media only screen and (max-width: 767px) {
@@ -70,8 +168,17 @@
     }
   }
 
-  &-team {
-    .flex {
+  &-about {
+    padding-top: 85px;
+    padding-bottom: 90px;
+
+    &--subhead {
+      font-weight: normal;
+      font-size: 1.7em;
+      margin-top: 50px;
+    }
+
+    &__values {
       margin: 0 -20px;
 
       @media only screen and (max-width: 767px) {
@@ -84,6 +191,46 @@
         padding: 30px 50px;
         box-shadow: $shadow;
         border-radius: 5px;
+
+        img {
+          height: 110px;
+        }
+
+        h3 {
+          margin: 15px 0;
+        }
+
+        h4 {
+          opacity: 0.7;
+          margin-top: 5px;
+          margin-bottom: 15px;
+        }
+
+        p {
+          font-size: 0.95em;
+        }
+      }
+    }
+
+    &__team {
+      max-width: 900px;
+      margin: 0 auto;
+
+      @media only screen and (max-width: 767px) {
+        flex-direction: column;
+      }
+
+      .flex-1 {
+        margin: 10px 0;
+        padding: 30px 50px;
+
+        &:first-child {
+          border-right: 1px solid rgba($b, 0.2);
+
+          @media only screen and (max-width: 767px) {
+            border-right: 0;
+          }
+        }
 
         img {
           height: 140px;
@@ -104,6 +251,8 @@
   }
 
   &-blog {
+    padding-top: 85px;
+    padding-bottom: 85px;
     background-color: $light;
 
     .flex {
@@ -125,12 +274,16 @@
   }
 
   &-contact {
+    background-color: $light;
+    padding-top: 85px;
+
     &__wrapper {
       max-width: 700px;
       margin: 0 auto;
       box-shadow: $shadow;
       border-radius: 5px;
       padding: 30px 40px;
+      background-color: $f;
     }
   }
 }

diff --git a/src/assets/scss/_globals.scss b/src/assets/scss/_globals.scss
@@ -74,6 +74,10 @@ a {
 
 section {
   padding: 100px 0;
+
+  @media only screen and (max-width: 767px) {
+    padding: 50px 0;
+  }
 }
 
 input {
